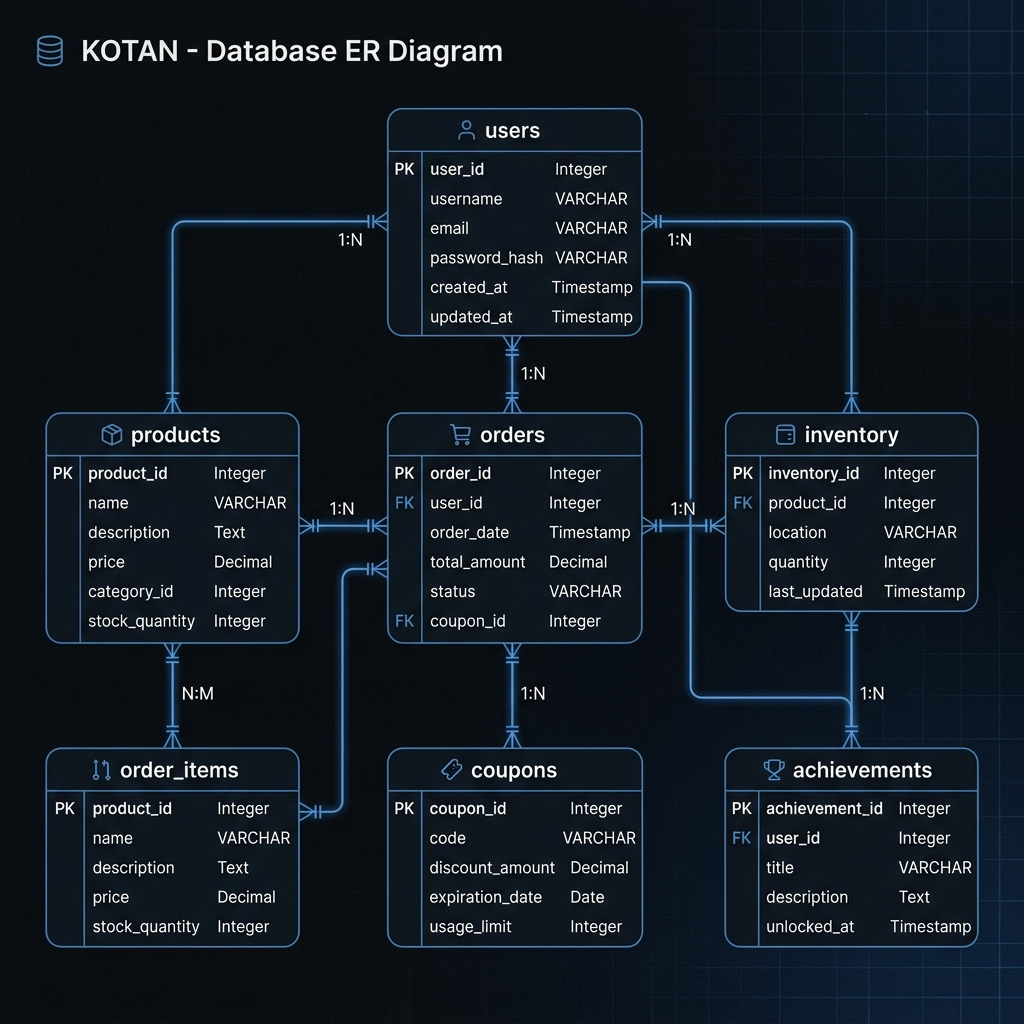
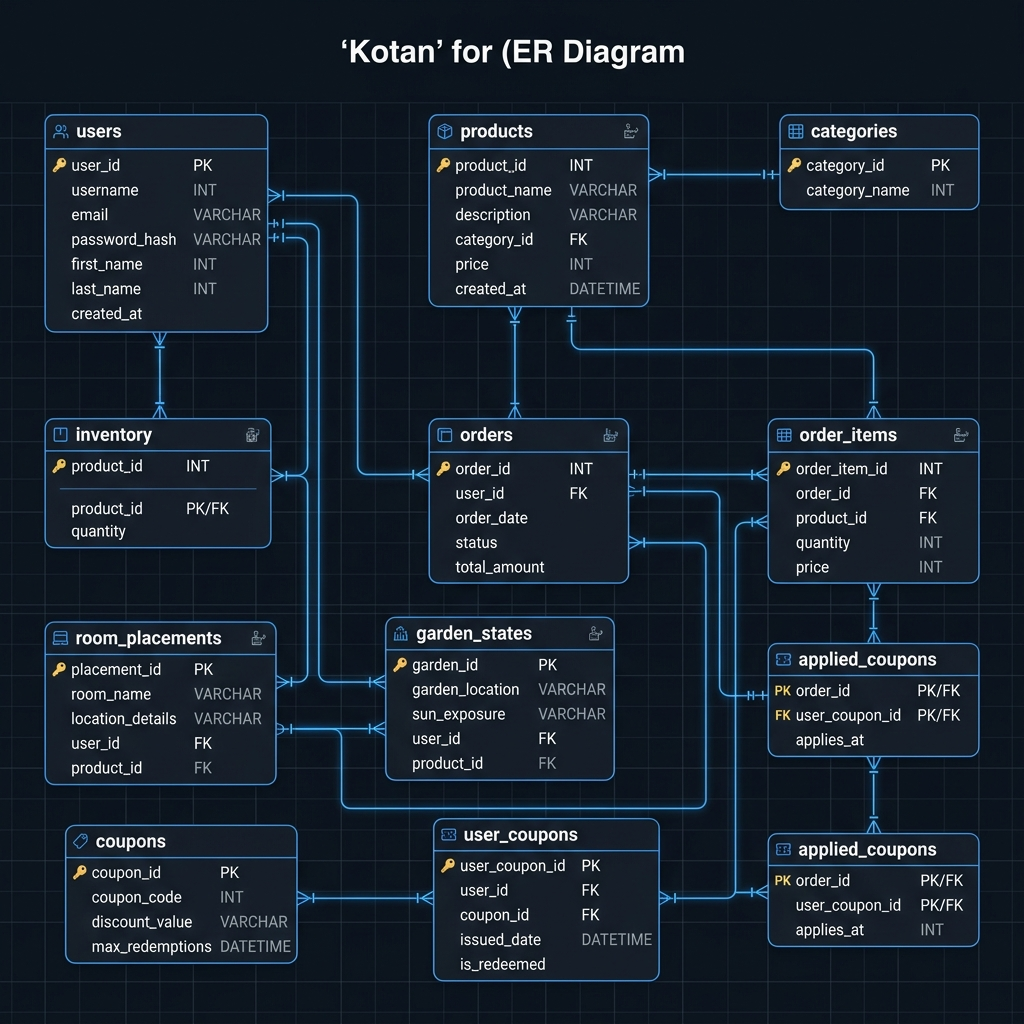
Please provide the specific file changes or a summary of the modifications you have made so I can generate the commit message for you.

diff --git a/memo/ER図.md b/memo/ER図.md
@@ -14,13 +14,10 @@ erDiagram
     users ||--o{ inventory : "owns"
     users ||--o{ room_placements : "arranges"
     users ||--o{ garden_states : "plants"
-    users ||--o{ user_achievements : "earns"
-
     coupons ||--o{ user_coupons : "assigned_to"
-    coupons ||--o{ applied_coupons : "used_in"
-
     orders ||--o{ order_items : "contains"
     orders ||--o{ applied_coupons : "applies"
+    user_coupons ||--o{ applied_coupons : "used_as"
 
     products ||--o{ order_items : "ordered_as"
     products ||--o{ inventory : "stored_as"
@@ -29,8 +26,6 @@ erDiagram
     products |o--o{ achievements : "reward_for"
 
     categories ||--o{ products : "classifies"
-
-    achievements ||--o{ user_achievements : "completed_by"
 
     users {
         int id PK
@@ -89,7 +84,7 @@ erDiagram
 | `orders` | `order_items` | 1つの注文には複数の商品明細が含まれます。 |
 | `orders` | `applied_coupons` | 1つの注文に複数のクーポンを適用できます。 |
 | `coupons` | `user_coupons` | 1つのクーポン種別は複数のユーザーに配布されます。 |
-| `achievements` | `user_achievements` | 1つの実績項目は複数のユーザーによって達成されます。 |
+| `user_coupons` | `applied_coupons` | 1つの所持クーポンは特定の注文に適用されます。 |
 
 ### 2. 多対多 (N:M)
 中間テーブル（Junction Table）を介して、両方のテーブルが互いに複数のレコードと紐づく形式です。
@@ -100,6 +95,5 @@ erDiagram
 | `users` | `products` | `room_placements` | ユーザーは複数の家具を配置し、家具は複数のユーザーの部屋に配置されます。 |
 | `users` | `products` | `garden_states` | ユーザーは複数の種を植え、種は複数のユーザーの庭で成長します。 |
 | `users` | `coupons` | `user_coupons` | ユーザーは複数のクーポンを持ち、クーポンは複数のユーザーに保持されます。 |
-| `users` | `achievements` | `user_achievements` | ユーザーは複数の実績を達成し、実績は複数のユーザーに達成されます。 |
 | `orders` | `products` | `order_items` | 1つの注文に複数の商品が入り、1つの商品は複数の注文に含まれます。 |
-| `orders` | `coupons` | `applied_coupons` | 1つの注文に複数のクーポンが使われ、1つのクーポンは複数の注文に使われます。 |
+| `orders` | `user_coupons` | `applied_coupons` | 1つの注文に複数の所持クーポンが使われ、1つの所持クーポンは複数の注文に使われる（分割利用等想定）。 |

diff --git a/memo/テーブル定義書.md b/memo/テーブル定義書.md
@@ -94,8 +94,6 @@ EC商品と、メタバース内で使用するアイテム（報酬家具・種
 | `product_id` | INTEGER | REFERENCES products | アイテムID |
 | `pos_x` | REAL | | X座標 |
 | `pos_y` | REAL | | Y座標 |
-| `pos_z` | REAL | | Z座標 |
-| `rot_y` | REAL | | Y軸回転 |
 
 ---
 
@@ -133,16 +131,6 @@ EC商品と、メタバース内で使用するアイテム（報酬家具・種
 | `description` | TEXT | | 達成条件の説明 |
 | `reward_product_id`| INTEGER | REFERENCES products | 報酬アイテム（家具など）のID |
 
-### user_achievements (ユーザー達成状況)
-ユーザーごとの実績クリア状態を管理します。
-
-| カラム名 | データ型 | 制約 | 説明 |
-| :--- | :--- | :--- | :--- |
-| `id` | SERIAL | PRIMARY KEY | 管理ID |
-| `user_id` | INTEGER | REFERENCES users | ユーザーID |
-| `achievement_id` | INTEGER | REFERENCES achievements| 実績ID |
-| `achieved_at` | TIMESTAMP | DEFAULT NOW() | 達成日時 |
-
 ---
 
 ## 6. 注文・決済系
@@ -162,7 +150,7 @@ EC商品と、メタバース内で使用するアイテム（報酬家具・種
 | :--- | :--- | :--- | :--- |
 | `id` | SERIAL | PRIMARY KEY | 管理ID |
 | `order_id` | INTEGER | REFERENCES orders | 注文ID |
-| `coupon_id` | INTEGER | REFERENCES coupons | 適用したクーポンID |
+| `user_coupon_id` | INTEGER | REFERENCES user_coupons | 適用した所持クーポンID |
 
 ### order_items (注文明細)
 | カラム名 | データ型 | 制約 | 説明 |
